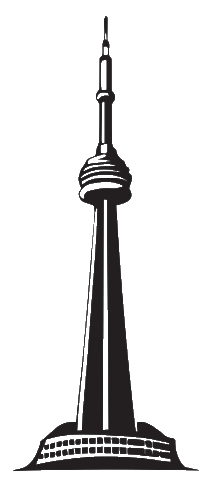
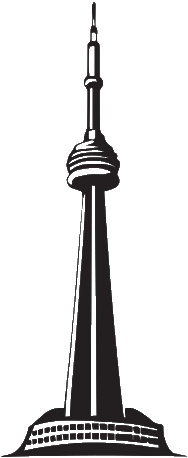
feat: add 'Wanting Things' blog post and update blog layout

diff --git a/src/pages/WantingThings.tsx b/src/pages/WantingThings.tsx
@@ -1,0 +1,62 @@
+import PageTransition from '../components/PageTransition';
+
+export default function WantingThings() {
+  return (
+    <PageTransition>
+      <section className="section" style={{ paddingBottom: '5rem' }}>
+        <div className="section-header" style={{ marginBottom: '3rem' }}>
+          <h2>TRANSMISSION_02</h2>
+          <p style={{ marginTop: '0.5rem', fontFamily: 'var(--font-mono)', color: 'rgba(253,246,227,0.7)', fontSize: '14px' }}>
+            2026-05-30 // LOG
+          </p>
+        </div>
+
+        <div style={{ maxWidth: '800px' }}>
+          <h1 style={{ fontSize: 'clamp(2rem, 5vw, 3rem)', margin: '0 0 2rem 0', fontFamily: 'var(--font-display)', color: 'var(--text-primary)', lineHeight: 1.1 }}>
+            On Wanting Things You Might Not Get
+          </h1>
+
+          <div style={{ fontFamily: 'var(--font-mono)', fontSize: '16px', lineHeight: '1.8', color: 'rgba(253, 246, 227, 0.9)' }}>
+            <p style={{ marginBottom: '1.5rem' }}>
+              The posture of ambition itself is something I've probably grappled with for over nineteen years now. If that reads ironic, that's because it partially is. But entertain me. Close your eyes (or don't — it's not like I can actually tell), and imagine going up to someone, perhaps a friend you're somewhat close to for the purpose of this exercise. Then you tell them what you really want, yearn for, and desire to your core. Not something polite or half-hearted about "white picket fences," the whole truth. The real one. They likely get a little squirmy, even uncomfortable. If you're sitting down in this scenario, they probably shift in their seats. A third person might break the tension with a lame attempt at a joke. Someone else will cautiously warn you about getting your hopes up. That's usually the person who swears they have no "regrets," only because they've lied to themselves well enough to believe it.
+            </p>
+
+            <p style={{ marginBottom: '1.5rem' }}>
+              I used to soften my wants for that room by using coded phrases (e.g. "I'd love to" do a thing, "that it would be cool" to do this, etc.) because I was too afraid. Afraid to seem arrogant and afraid to fail. I've stopped myself from doing that a lot. Before someone asks, I'm not saying to be one of those people no one wants to be in a room with because they're always going on about how great they are. I consider myself one of the dumbest people I've ever met, but incredibly hard-working for the most part. Maybe it's because I feel some semblance of imposter syndrome, but it's more so that I know my limits. I, too, despise people who can only talk about themselves, especially if they haven't done anything substantial yet to justify it. What I'm trying to say is be honest <em>when asked</em>, not a bumptious narcissist.
+            </p>
+
+            <p style={{ marginBottom: '1.5rem' }}>
+              Now that it's on the record, let's talk about why we shrink. After some reflection due to a subconscious need to appear successful, I've realized something: You shrink the want so the gap between the want and the result stays private. If you never say you're after something big, nobody watches you miss — which admittedly can be embarrassing — and the wanting stays perfectly safe in your head where it can't reveal itself to the people whose opinion matters to you. Still, and this is the part I'm starting to realize, the true cost of it shows up later, quiet, when you realize you spent years aiming at things small enough to guarantee. You build your entire life on these small, almost insignificant accomplishments, and never do the great things that you wanted when you were younger. This is the stage of life where dreams die and being content is falsely seen as equal to being happy. I'm relatively young, and I'm speaking on aspects of life that I haven't been through yet, but I see the people around me, and understand enough. I don't want to be on my deathbed, thinking of what could've been, with only a lifetime of pent-up resentment and unrealized potential to show for it. I'd rather fail than to never know.
+            </p>
+
+            <p style={{ marginBottom: '1.5rem' }}>
+              When I say what I want plainly, two things happen (sometimes unexpectedly). Other people are also often scared to talk about their genuine wants as well, but they might be much more willing to be honest when someone else does it first. Sometimes, a simple conversation with one of these people can point you exactly where you need to go to reach your goals. They know the right person, give you something to think about, or add some other value to your goals. The second part is that you lose the exit. The stated want sits there in the open and I have to answer to it. It pushes you to be actionable instead of complacent. That second part scares people off far more than it should. It's the entire value. For my sake, please do not miss it.
+            </p>
+
+            <p style={{ marginBottom: '1.5rem', fontWeight: 'bold', color: 'var(--accent-secondary)' }}>
+              Now, onto the substance behind the title. I'll keep this part short because I feel that it carries more weight that way.
+            </p>
+
+            <p style={{ marginBottom: '1.5rem' }}>
+              Most big dreams don't land as you intended or even land at all. I know the odds. I say the thing anyway, and I hold both at once: I want this, and I might not get it (regardless of how much I wanted it, and, in some cases, how much I did). Fortunately for us, they don't cancel each other out. A want isn't meant to be a prediction or a gamble. I'm not claiming I'll win. I'm claiming I'd rather chase it in stark daylight than pretend I never cared. Once again, I'd rather fail than to never know.
+            </p>
+
+            <p style={{ marginBottom: '1.5rem' }}>
+              Side note: this is why I tell people that I'm <a href="https://www.merriam-webster.com/dictionary/nonchalant" target="_blank" rel="noreferrer" style={{ color: 'var(--accent-primary)', textDecoration: 'underline' }}>chalant</a> because it's cool to care. Likewise, the <a href="https://www.youtube.com/watch?v=UJzvwWzO1YI" target="_blank" rel="noreferrer" style={{ color: 'var(--accent-primary)', textDecoration: 'underline' }}>pursuit of greatness</a> is <em>never</em> cringe. Also, even if you fail your original goal, sometimes the outcome you get is better than whatever you first wanted.
+            </p>
+
+            <p style={{ marginBottom: '1.5rem' }}>
+              The people I admire ("the greats") all carried real prestige through their efforts. Take Ulysses S. Grant. Before he ever won a war, he failed at practically everything he touched. Farming, business, ending up behind the counter of his father's leather store while half the country had written him off as a washed-up drunk. He never got quiet about where he was headed. He said it, took every hit for saying it, and even after the victories he came up short plenty (just ask any historian about his presidency). But I'd bet he never once regretted his journey. Dying broke and sick, he spent his last months racing to finish his memoirs, so his family wouldn't starve, and beat it by days. That's the specific pattern with every one of the greats I admire: they dreamt big out loud, they fell in public, and they had the gall to get back up (which, if you ask me, is definitely not an easy feat). The saying was the true cost of admission. Like Grant, they all paid it. A cost a majority of people would rather avoid entirely.
+            </p>
+
+            <p style={{ marginBottom: '3rem' }}>
+              Before I keep reiterating my point another twenty pages, let me put a simple close to this. I will keep saying the loud thing. If I miss, I miss in public, and that's a price I've made peace with. The version of me that never named the want would be safer and smaller, and I'd never get to meet the version that tried. I want to meet him. And if you don't think I live by this philosophy, take my experience in high school. I ran for elected positions many times (student government, student trustee, even valedictorian). Guess what, I never won. Do I regret it? <strong>Absolutely not.</strong> I made a lot of cool friends, met some interesting people, and it's something that I'm still proud of. Part of who I am is to be <em>unapologetically ambitious</em>, and I cannot apologize for that ever. The only regret I could ever see myself having is if I ever lose this perspective. If I ever do, feel free to sucker punch me.
+            </p>
+
+            <hr style={{ border: 'none', borderTop: '1px dashed rgba(253,246,227,0.3)', marginBottom: '2rem' }} />
+          </div>
+        </div>
+      </section>
+    </PageTransition>
+  );
+}

diff --git a/src/pages/Home.css b/src/pages/Home.css
@@ -188,13 +188,38 @@
 }
 
 
-.cn-tower-decor {
+.landmark-swap {
+  position: absolute;
+  bottom: 7%;
+  /* Center it in the gutter between the description card (max 650px, left)
+     and the "what I'm up to" card (max 400px, right):
+     page-center + (650 - 400) / 2 = page-center + 125px.
+     A fixed px offset stays put at any width; the old raw `60%` tracked the
+     widening section and drifted far right on wide/ultrawide screens. */
+  left: calc(50% + 125px);
+  transform: translateX(-50%);
+  z-index: 0;
+  cursor: pointer;
+  /* Narrow box that hugs the figures. The PNGs are cropped to their content,
+     and both landmarks are tall ~0.41-aspect silhouettes, so this box tracks
+     the visible figure instead of a big square of transparent dead space
+     (which is what was triggering the hover from empty areas beside it). */
   height: clamp(280px, 40vh, 400px);
-  width: auto;
+  aspect-ratio: 188 / 458;
+}
+
+/* Both landmark images fill the exact same box and share one hitbox. They are
+   `contain`-fit and bottom-aligned. Because the PNGs are cropped to their
+   content, the box hugs the visible figure and the hitbox matches what you see. */
+.cn-tower-decor {
+  position: absolute;
+  inset: 0;
+  width: 100%;
+  height: 100%;
   object-fit: contain;
+  object-position: center bottom;
   opacity: 0.9;
   transition: opacity 0.3s ease;
-  display: block;
 }
 
 .landmark-default {
@@ -203,22 +228,7 @@
 
 .landmark-hover {
   filter: brightness(0) invert(96%) sepia(10%) saturate(150%) hue-rotate(5deg);
-  opacity: 0 !important;
-  position: absolute;
-  bottom: -15px;
-  left: 50%;
-  transform: translateX(-50%);
-  height: 100%;
-  width: auto;
-}
-
-.landmark-swap {
-  position: absolute;
-  bottom: 7%;
-  left: 60%;
-  transform: translateX(-50%);
-  z-index: 0;
-  cursor: pointer;
+  opacity: 0;
 }
 
 .landmark-swap:hover .landmark-default {
@@ -226,7 +236,7 @@
 }
 
 .landmark-swap:hover .landmark-hover {
-  opacity: 0.9 !important;
+  opacity: 0.9;
 }
 
 @media (max-width: 1050px) {
@@ -718,9 +728,18 @@ button.email-box {
     gap: 1rem;
   }
 
-  .ascii-art-bg,
+  /* Keep the faint y2k ASCII background on mobile too. body has overflow-x:
+     hidden, so any overflow past the right edge won't add a scrollbar. */
+  .ascii-art-bg {
+    top: 8%;
+    left: auto;
+    right: 0;
+    transform: none;
+  }
+
   .ascii-art-secondary {
-    display: none;
+    top: 40%;
+    right: 0;
   }
 
   .hero-content {
@@ -758,13 +777,15 @@ button.email-box {
     margin-top: 0;
   }
 
+  /* Shrink-wrap the tap target to the figure (centered), so tapping empty
+     space beside the landmark no longer toggles it. */
   .mobile-landmark-swap {
     display: flex;
     justify-content: center;
     align-items: flex-end;
-    margin-top: 1.5rem;
+    width: fit-content;
+    margin: 1.5rem auto 0;
     position: relative;
-    min-height: 200px;
   }
 
   .mobile-landmark-swap img {
@@ -978,6 +999,12 @@ button.email-box {
 
   .what-im-up-to-card {
     max-width: 550px;
+  }
+
+  /* Cards grow here (hero 900px, card 550px), so recenter the landmark:
+     page-center + (900 - 550) / 2 = page-center + 175px. */
+  .landmark-swap {
+    left: calc(50% + 175px);
   }
 
   .tenets-grid {

diff --git a/src/pages/Blog.tsx b/src/pages/Blog.tsx
@@ -18,16 +18,22 @@ export default function Blog() {
     <PageTransition>
       <section className="section">
         <div className="section-header">
-          <h2>TRANSMISSIONS</h2>
+          <h2>TRANSMISSIONS_</h2>
         </div>
         
         <div className="blog-layout">
           {/* Main Content */}
           <div className="blog-feed">
             {[
-              { 
-                date: '2026-03-26', 
-                title: 'Embracing Brutalist X Y2K Aesthetics in Web Design', 
+              {
+                date: '2026-05-30',
+                title: 'On Wanting Things You Might Not Get',
+                abstract: 'On ambition said out loud, the quiet cost of shrinking your wants, and why failing in public beats never trying at all.',
+                link: '/blog/wanting-things'
+              },
+              {
+                date: '2026-03-26',
+                title: 'Embracing Brutalist X Y2K Aesthetics in Web Design',
                 abstract: 'Why I chose to abandon Tailwind for this iteration of my portfolio. The importance of structure over polish in a landscape of identical SaaS sites.',
                 link: '/blog/brutalist-y2k'
               },
@@ -58,6 +64,11 @@ export default function Blog() {
             <div className="sidebar-section">
               <h4>[QUICK_SEEK]</h4>
               <ul className="quick-seek-list">
+                <li>
+                  <Link to="/blog" onClick={() => window.scrollTo(0, 0)}>
+                    <span className="seek-bullet">■</span> 2026 / Q2
+                  </Link>
+                </li>
                 <li>
                   <Link to="/blog" onClick={() => window.scrollTo(0, 0)}>
                     <span className="seek-bullet">■</span> 2026 / Q1

diff --git a/src/App.tsx b/src/App.tsx
@@ -6,6 +6,7 @@ import Media from './pages/Media';
 import Blog from './pages/Blog';
 import Poetry from './pages/Poetry';
 import BrutalistY2k from './pages/BrutalistY2k';
+import WantingThings from './pages/WantingThings';
 import Navigation from './components/Navigation';
 import Footer from './components/Footer';
 
@@ -21,6 +22,7 @@ function AnimatedRoutes() {
         <Route path="/poetry" element={<Poetry />} />
         <Route path="/blog" element={<Blog />} />
         <Route path="/blog/brutalist-y2k" element={<BrutalistY2k />} />
+        <Route path="/blog/wanting-things" element={<WantingThings />} />
       </Routes>
     </AnimatePresence>
   );
